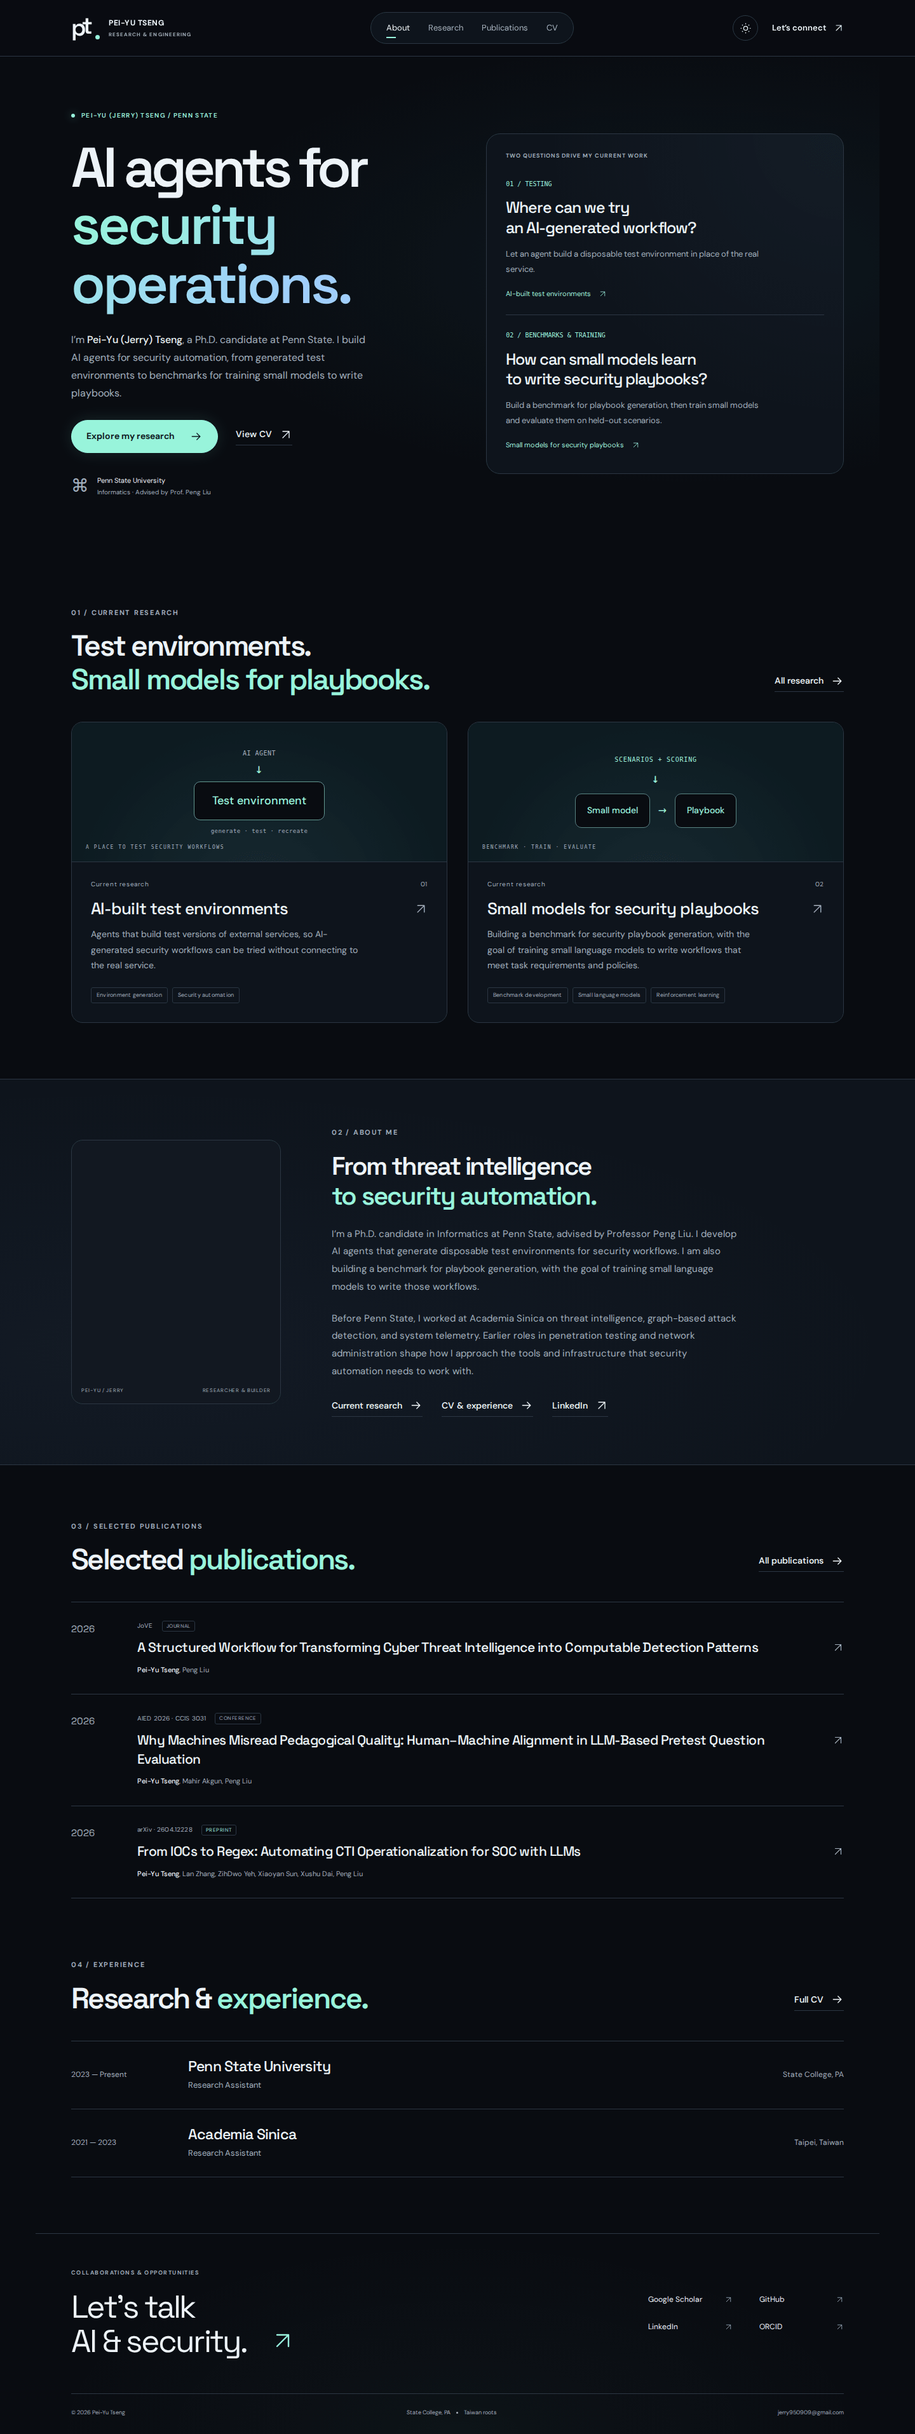
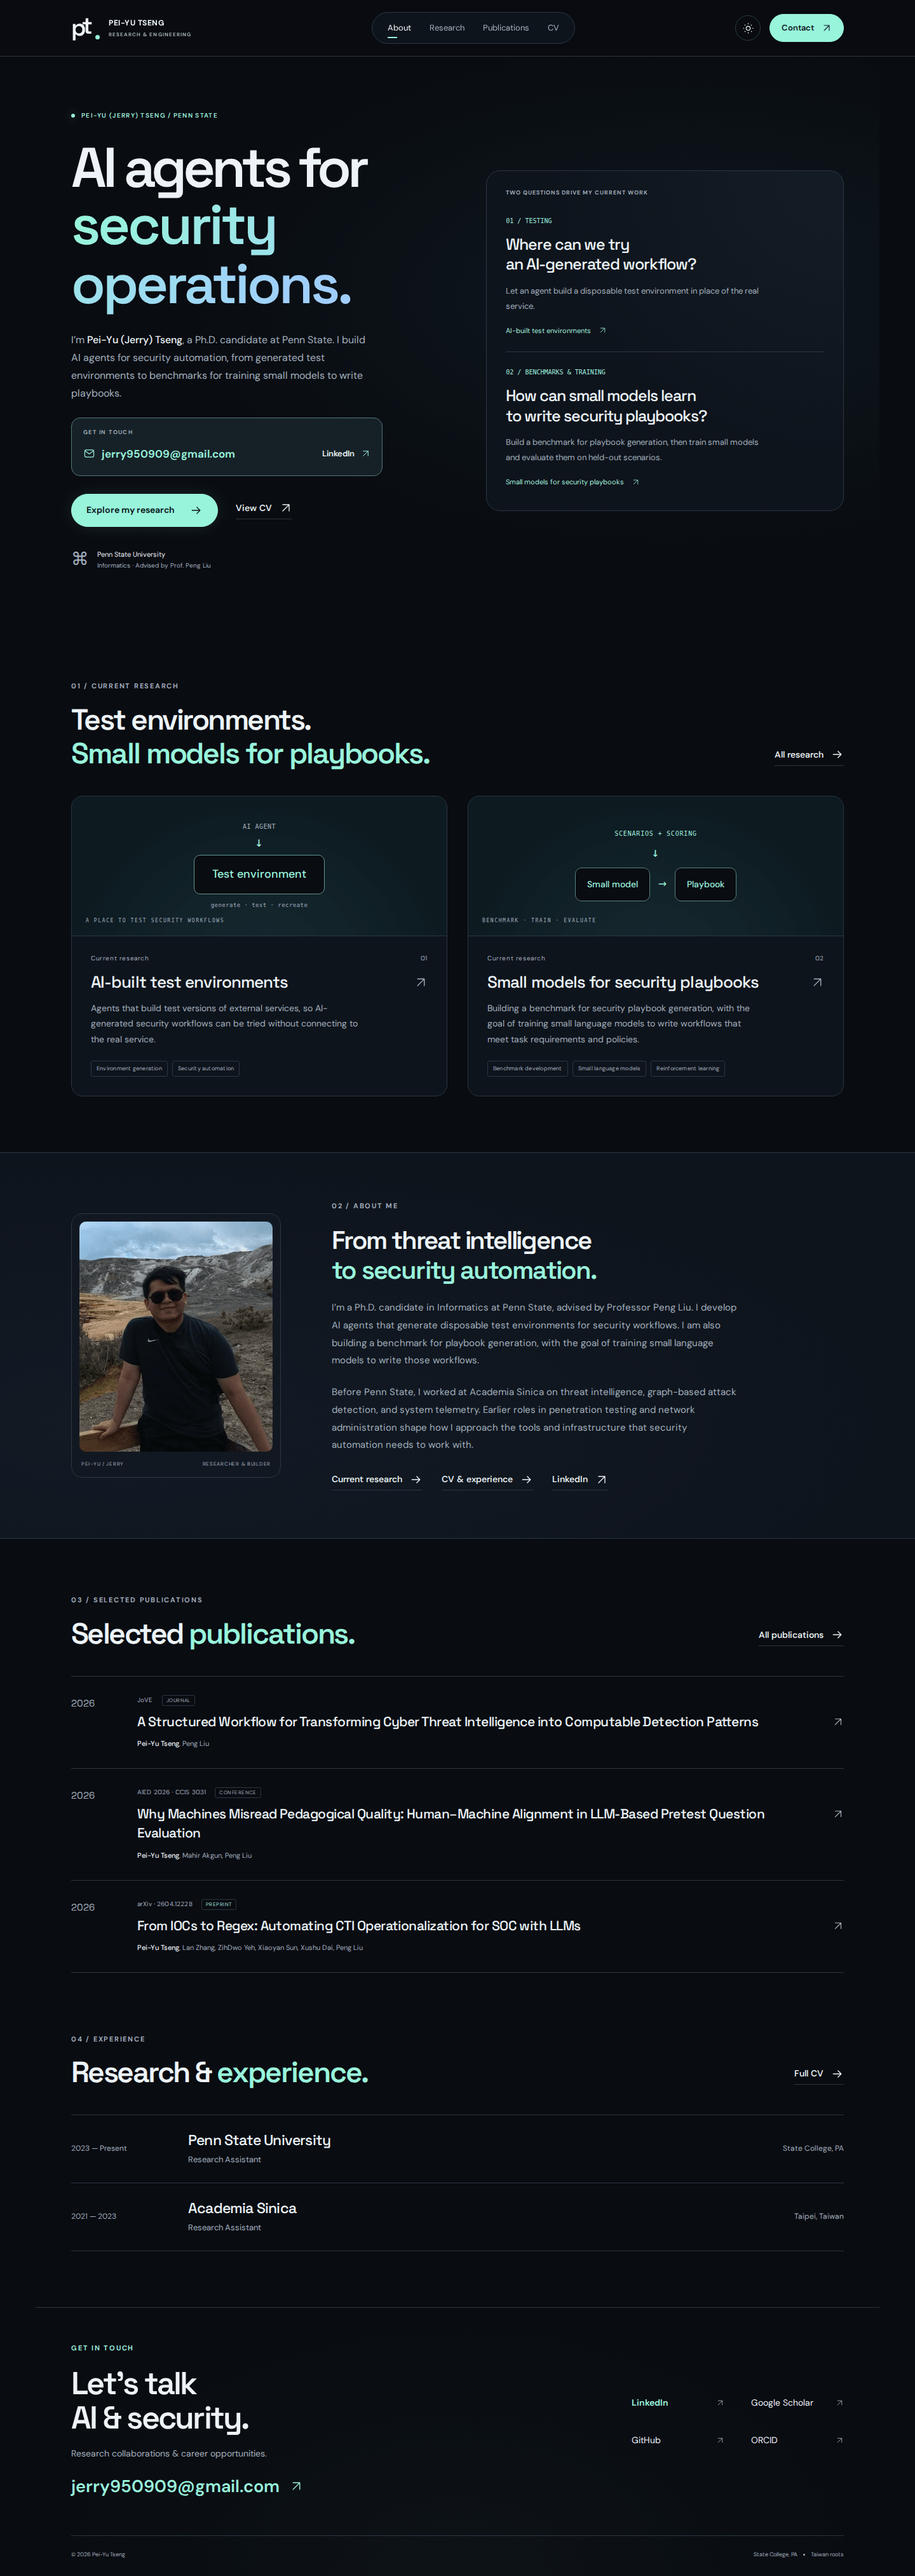
Make email and LinkedIn easy to find across the portfolio

diff --git a/site/src/styles/contact.css b/site/src/styles/contact.css
@@ -1,0 +1,59 @@
+/* Keep direct contact details visible at the start and end of the site. */
+@media screen {
+  .header-actions { gap: 14px; }
+  .contact-nav {
+    display: inline-flex;
+    flex-shrink: 0;
+    justify-content: center;
+    min-height: 44px;
+    padding: 10px 18px;
+    border: 1px solid var(--accent);
+    border-radius: 30px;
+    background: var(--accent);
+    color: var(--ink);
+  }
+  .contact-nav:hover { box-shadow: 0 0 24px color-mix(in srgb, var(--accent) 22%, transparent); }
+  .hero-contact {
+    max-width: 490px;
+    margin-top: 24px;
+    padding: 16px 18px;
+    border: 1px solid color-mix(in srgb, var(--accent) 35%, var(--line));
+    border-radius: 14px;
+    background: color-mix(in srgb, var(--accent) 6%, var(--surface-soft));
+  }
+  .hero-contact > .eyebrow { margin-bottom: 8px; color: var(--muted); font-size: 9px; }
+  .hero-contact-links { display: flex; flex-wrap: wrap; align-items: center; gap: 6px 18px; }
+  .hero-email, .hero-linkedin { display: inline-flex; align-items: center; gap: 10px; min-height: 36px; }
+  .hero-email { color: var(--accent); font-size: 17px; font-weight: 650; }
+  .hero-email svg { flex-shrink: 0; }
+  .hero-linkedin { margin-left: auto; font-size: 13px; font-weight: 600; }
+  .hero-linkedin .arrow { width: 15px; height: 15px; color: var(--accent); }
+  .hero-email:hover, .hero-linkedin:hover, .footer-email:hover { text-decoration: underline; text-underline-offset: 5px; }
+  .footer-top .eyebrow { color: var(--accent); font-size: 11px; }
+  .footer-contact-note { margin-top: 18px; color: var(--muted); font-size: 14px; }
+  .footer-email { display: inline-flex; align-items: center; gap: 16px; margin-top: 18px; color: var(--accent); font-size: clamp(18px, 2.3vw, 27px); font-weight: 600; }
+  .footer-email .arrow { width: 21px; height: 21px; }
+  .footer-links a { min-height: 36px; font-size: 14px; }
+  .footer-links a:first-child { color: var(--accent); font-weight: 650; }
+}
+@media screen and (max-width: 800px) {
+  .header-inner { gap: 12px; }
+  .header-actions { gap: 8px; }
+  .contact-nav { min-height: 40px; padding: 8px 13px; font-size: 12px; }
+  .contact-nav .arrow { display: none; }
+}
+@media screen and (max-width: 540px) {
+  .hero-contact { padding: 13px 14px; }
+  .hero-contact-links { gap: 4px 12px; }
+  .hero-email { font-size: 15px; gap: 8px; }
+  .hero-linkedin { font-size: 12px; gap: 6px; }
+  .hero-affiliation { margin-top: 24px; }
+}
+@media screen and (max-width: 380px) {
+  .wordmark-sub { display: none; }
+  .wordmark { gap: 8px; font-size: 9px; }
+  .hero-linkedin { margin-left: 27px; }
+}
+@media screen and (max-width: 340px) {
+  .wordmark > span:last-child { display: none; }
+}
